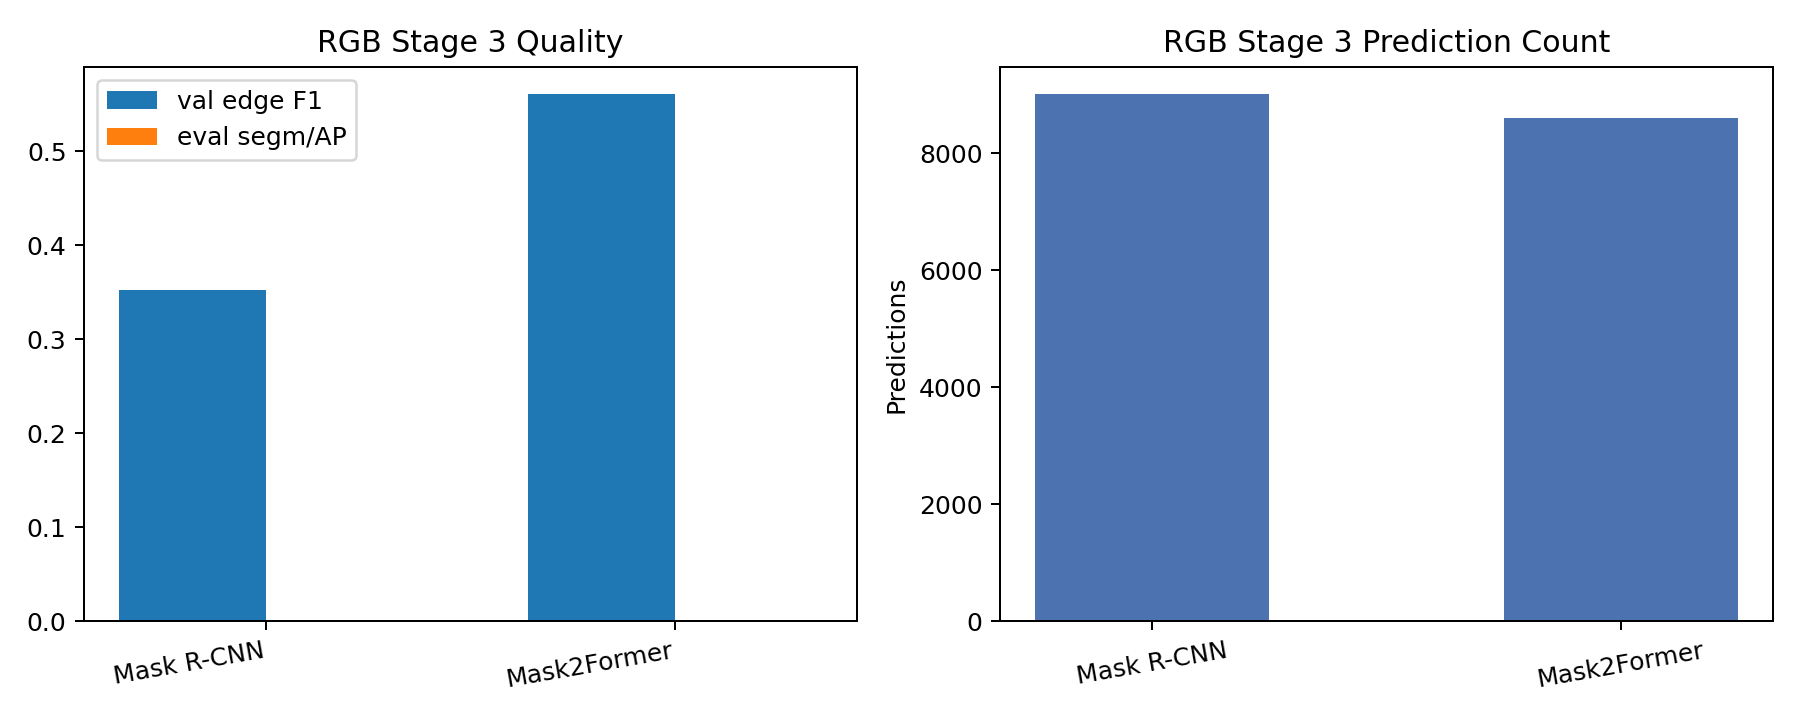
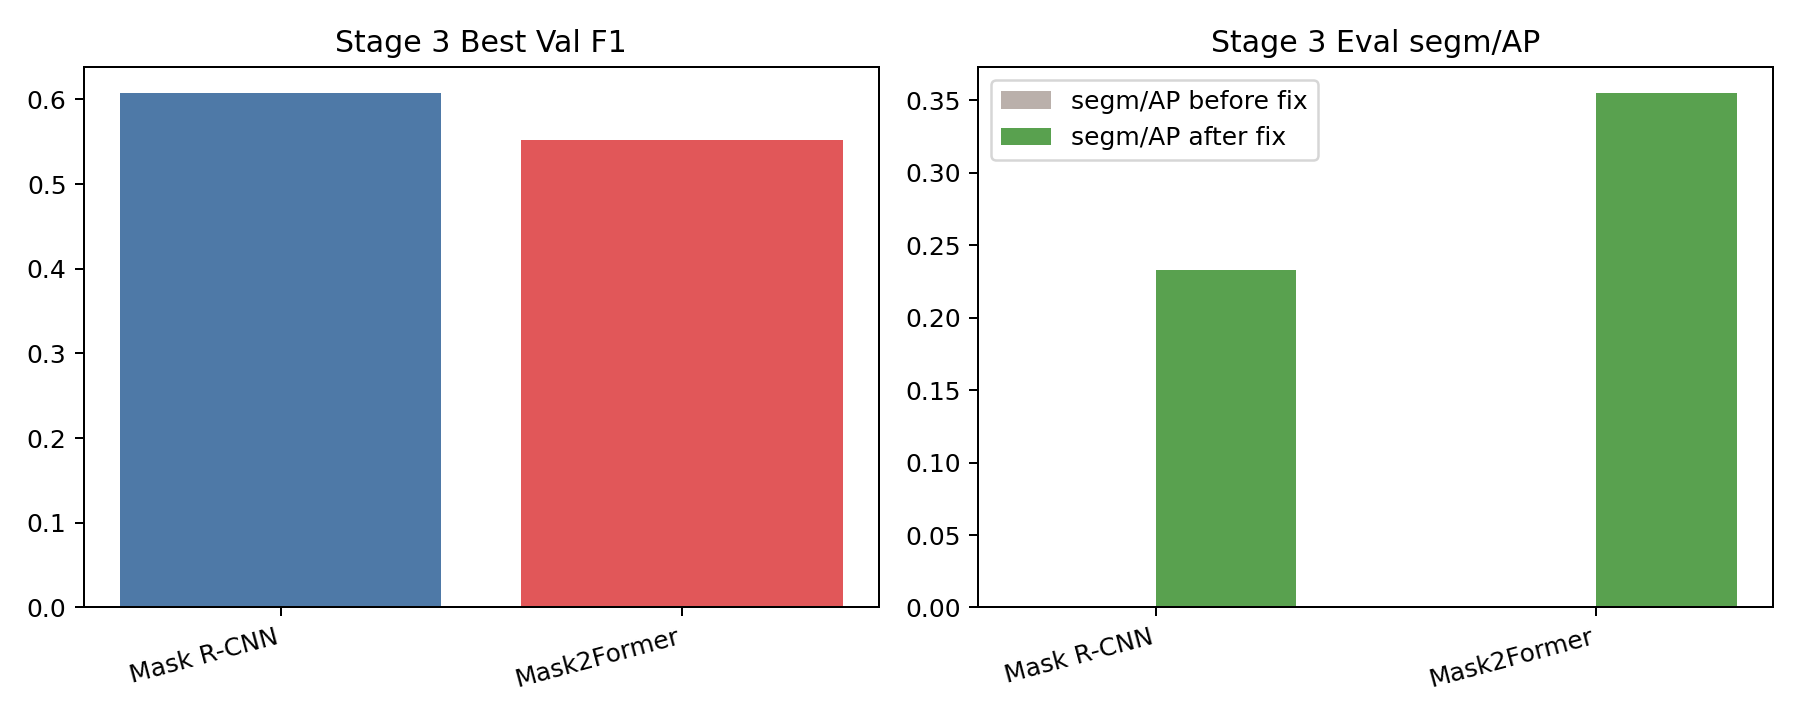
fix: recover phase3 graph eval ap

diff --git a/docs/results/2026-03-29-rgb-weekend-pipeline-summary.md b/docs/results/2026-03-29-rgb-weekend-pipeline-summary.md
@@ -4,10 +4,19 @@
 
 ## Scope
 
-This note closes the current RGB-first weekend pipeline sub-project:
+This note updates the current `Phase 3 graph-to-instance debug` sub-project inside the RGB-first GISEC line.
+
+The long-term goal is unchanged:
+
+- beat traditional RGB/RGB-D segmentation in stacked electronic components
+- beat the previous `Magformer` line with a smaller RGB GISEC first
+- then push the final system past `AP 80`
+
+This milestone is only about the first verified Stage 3 failure mode:
 
 - Stage 2: train the RGB reference splitter
-- Stage 3: train and evaluate the RGB reference-graph merge branch for both `Mask R-CNN` and `Mask2Former`
+- Stage 3: explain why graph validation F1 was useful while final eval AP collapsed to zero
+- Stage 3: rerun eval after fixing the first verified export bug
 
 The machine summary is in [2026-03-29-rgb-weekend-pipeline-summary.json](2026-03-29-rgb-weekend-pipeline-summary.json).
 
@@ -26,51 +35,34 @@ Artifacts:
 - `output/experiments/rgb_weekend_pipeline_20260328/reference_splitter_rgb_stage2/train_summary.json`
 - `output/experiments/rgb_weekend_pipeline_20260328/reference_splitter_rgb_stage2/model_final.pth`
 
-## Stage 3
+## Stage 3 Before And After The Fix
 
-### Mask R-CNN branch
+| Model | Val F1 | Eval Threshold | segm/AP Before Fix | segm/AP After Fix | bbox/AP After Fix | Predictions |
+| --- | ---: | ---: | ---: | ---: | ---: | ---: |
+| `Mask R-CNN RGB` | 0.6078 | 0.125 | 0.0000 | 0.2327 | 0.2760 | 8695 |
+| `Mask2Former RGB` | 0.5527 | 0.100 | 0.0000 | 0.3552 | 0.3514 | 8539 |
 
-- validation edge `F1 = 0.3529`
-- validation precision `= 0.4138`
-- validation recall `= 0.3077`
-- final eval `segm/AP = 0.0000`
-- final eval `bbox/AP = 0.0000`
-- final prediction count `= 9024`
+## Root Cause
 
-Artifacts:
+- The first verified Stage 3 root cause was not in the graph head itself. It was in the export path.
+- Stage 3 eval was writing merged instance masks at fragment / feature-map resolution, for example `200x200` or `256x256`, while the dataset images and annotations are `1024x1024`.
+- Edge validation F1 could still look useful under that bug, but COCO AP crashed because the final masks were on the wrong canvas.
 
-- `output/experiments/rgb_weekend_pipeline_20260328/maskrcnn_reference_graph_rgb_stage3/val_summary.json`
-- `output/experiments/rgb_weekend_pipeline_20260328/maskrcnn_reference_graph_rgb_stage3/eval_val/eval_summary.json`
+## What Was Fixed
 
-### Mask2Former branch
-
-- validation edge `F1 = 0.5614`
-- validation precision `= 0.4772`
-- validation recall `= 0.6815`
-- corrected eval threshold `= 0.15`
-- final eval `segm/AP = 0.0000`
-- final eval `bbox/AP = 0.0000`
-- final prediction count `= 8606`
-
-Artifacts:
-
-- `output/experiments/rgb_weekend_pipeline_20260328/mask2former_reference_graph_rgb_stage3/val_summary.json`
-- `output/experiments/rgb_weekend_pipeline_20260328/mask2former_reference_graph_rgb_stage3/eval_val/eval_summary.json`
-
-## Important Debug Finding
-
-During this milestone, the eval CLI was resolving the threshold from `train_summary.json` before `val_summary.json`. That could leave eval stuck on a stale threshold. The bug is now fixed so eval prefers the validation-selected threshold first.
-
-That fix changed the Mask2Former eval threshold from `0.10` to `0.15`. The final AP still stayed at zero, so the Stage 3 failure is real, not just a threshold-resolution artifact.
+- `baseline/reference_graph/eval_pipeline.py` now upsamples the merged label map back to the original image size before COCO export.
+- `tests/test_reference_graph_eval.py` now has a regression test that fails if a smaller cached fragment map is exported directly against a larger image.
+- The eval CLI also prefers the validation-selected threshold before the training summary threshold.
 
 ## Conclusion
 
-- The RGB Phase 1 backbone race is done and still stands: `Mask2Former RGB @1024` wins, `Mask R-CNN RGB @1024` is the benchmark companion.
-- Stage 2 is numerically healthy enough to keep.
-- Stage 3 is not ready. Both RGB reference-graph branches currently collapse to `0 AP` at final eval even though their edge-level validation metrics are non-zero.
+- The zero-AP collapse was real, but the first cause is now fixed. Stage 3 no longer evaluates at `0 AP`.
+- `Mask2Former RGB` is still the stronger Phase 3 branch after the fix, reaching `segm/AP 35.52`, above `Mask R-CNN RGB` at `23.27`.
+- Even after the fix, Stage 3 is still well below the Phase 1 RGB backbone numbers. So this is a recovery milestone, not a promotion milestone.
+- Phase 2 still needs more intuitive validation metrics later. The current splitter loss is useful, but it is not yet a direct enough quality read. That remains a later cleanup item after the main Phase 3 blocker.
 
 ## Next Step
 
-- Do not promote the current Stage 3 graph branch.
-- Investigate why non-zero edge quality still produces zero final instance AP.
-- Keep the repo face on the RGB Phase 1 winner while Stage 3 stays in failure-analysis mode.
+- Keep the RGB-first mainline and do not promote the current Stage 3 graph branch yet.
+- The next Phase 3 question is narrower now: after fixing mask-size export, what still keeps Stage 3 far below the Phase 1 RGB backbone AP?
+- The most likely next debug targets are merge scoring, score calibration, and over-fragmented prediction count, not the graph preview or mask canvas contract anymore.

diff --git a/docs/results/2026-03-29-rgb-weekend-pipeline-summary-table.md b/docs/results/2026-03-29-rgb-weekend-pipeline-summary-table.md
@@ -8,7 +8,7 @@
 
 ## Stage 3
 
-| Model | Best Threshold | Val F1 | Val Precision | Val Recall | Eval segm/AP | Eval bbox/AP | Eval FPS | Predictions |
-| --- | ---: | ---: | ---: | ---: | ---: | ---: | ---: | ---: |
-| Mask R-CNN | 0.10 | 0.3529 | 0.4138 | 0.3077 | 0.0000 | 0.0000 | 51.91 | 9024 |
-| Mask2Former | 0.15 | 0.5614 | 0.4772 | 0.6815 | 0.0000 | 0.0000 | 50.86 | 8465 |
+| Model | Val F1 | Eval Threshold | segm/AP Before Fix | segm/AP After Fix | bbox/AP After Fix | Eval FPS | Predictions |
+| --- | ---: | ---: | ---: | ---: | ---: | ---: | ---: |
+| Mask R-CNN RGB | 0.6078 | 0.125 | 0.0000 | 0.2327 | 0.2760 | 52.41 | 8695 |
+| Mask2Former RGB | 0.5527 | 0.100 | 0.0000 | 0.3552 | 0.3514 | 51.95 | 8539 |
